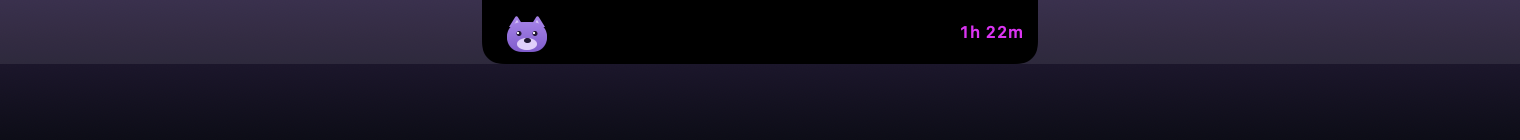
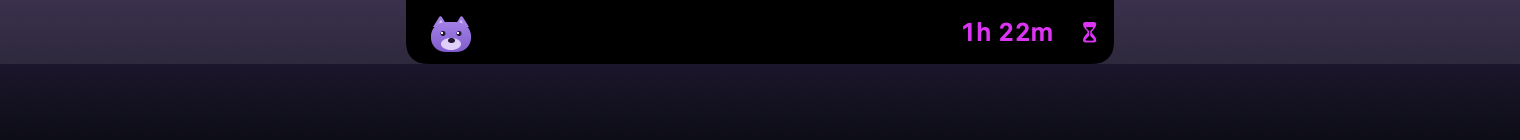
Buddy 0.7.0: countdown to your next reset beside the notch

Changed region(s): [[0.2474, 0.0, 0.3711, 0.4571], [0.6184, 0.0, 0.7421, 0.4571]]

diff --git a/Sources/Views.swift b/Sources/Views.swift
@@ -192,13 +192,26 @@ struct PillView: View {
     }
 
     private var header: some View {
-        HStack {
-            Guy(mood: store.overallMood, size: ui.geometry.barHeight * 0.66, urgent: store.peek != nil)
-                .padding(.leading, 12)
-            if ui.showsUsage, let s = store.usage?.session { usageBadge(s, approx: store.usage?.exact == false) }
-            Spacer()
-            // The space beside the notch is 46 pt; the badge never reaches under the camera.
-            badge.frame(maxWidth: 33, alignment: .trailing).padding(.trailing, 7)
+        // Each ear is the space beside the notch (46 or 84 pt); nothing reaches under the camera.
+        HStack(spacing: 0) {
+            HStack(spacing: 0) {
+                Guy(mood: store.overallMood, size: ui.geometry.barHeight * 0.66, urgent: store.peek != nil)
+                    .padding(.leading, 12)
+                if ui.showsUsage, let s = store.usage?.session { usageBadge(s, approx: store.usage?.exact == false) }
+                Spacer(minLength: 0)
+            }
+            .frame(width: ui.earWidth)
+            Spacer(minLength: 0)
+            // Both at their own width, so the badge never squeezes the countdown into "1h 5…".
+            HStack(spacing: 2) {
+                if let reset = ui.resetCountdown {
+                    resetTimer(reset.date, limit: reset.limit).fixedSize().layoutPriority(1).padding(.leading, 7)
+                }
+                Spacer(minLength: 0)
+                badge.fixedSize()
+            }
+            .padding(.trailing, 7)
+            .frame(width: ui.earWidth)
         }
         .contentShape(Rectangle())
         .onTapGesture { store.openTop() }
@@ -213,7 +226,12 @@ struct PillView: View {
                 .frame(minWidth: 16, minHeight: 16)
                 .background(Circle().fill(.orange))
         } else if !store.pausedSessions.isEmpty {
-            countdown
+            // The countdown itself sits beside the notch when there is room for it there.
+            if ui.resetCountdown?.limit == true {
+                Image(systemName: "hourglass").font(.system(size: 11, weight: .bold)).foregroundStyle(.purple)
+            } else {
+                countdown
+            }
         } else if !store.disconnectedSessions.isEmpty {
             Image(systemName: "wifi.slash").font(.system(size: 11, weight: .bold)).foregroundStyle(.purple)
                 .help("Chats stopped by a dropped connection; Buddy retries them when you're back online")
@@ -253,6 +271,18 @@ struct PillView: View {
         .frame(maxWidth: ui.earWidth - 12 - ui.geometry.barHeight * 0.66 - 12, alignment: .leading)
         .padding(.leading, 5)
         .help(store.usage?.exact == true ? "Session usage (exact) and when it resets" : "Estimated session usage and when it resets")
+    }
+
+    /// Counts down beside the notch: purple to a limit that has chats paused, else to the
+    /// session window's reset. Ticks by itself ("2h 14m", then "14:25").
+    private func resetTimer(_ reset: Date, limit: Bool) -> some View {
+        TimelineView(.periodic(from: .now, by: 1)) { context in
+            Text(Store.shortCountdown(max(0, reset.timeIntervalSince(context.date))))
+        }
+        .font(.system(size: 12.5, weight: .semibold).monospacedDigit())
+        .foregroundStyle(limit ? Color.purple : Color.white.opacity(0.85))
+        .lineLimit(1)
+        .help(limit ? "Time until the usage limit resets" : "Time until your session window resets")
     }
 
     static func usageTint(_ percent: Double) -> Color {

diff --git a/Sources/UI.swift b/Sources/UI.swift
@@ -107,7 +107,15 @@ final class UIState: ObservableObject {
 
     /// Usage sits beside the Guy, so the ears grow to fit it (both sides, to stay centred).
     var showsUsage: Bool { store.usage?.session != nil }
-    var earWidth: CGFloat { showsUsage ? 84 : 46 }
+    /// What the countdown right of the notch counts to: a usage limit that has chats paused
+    /// (`limit`), or else the session window's reset.
+    var resetCountdown: (date: Date, limit: Bool)? {
+        let now = Date()
+        if !store.pausedSessions.isEmpty, let reset = store.limitResetsAt, reset > now { return (reset, true) }
+        if let reset = store.usage?.session?.resetsAt, reset > now { return (reset, false) }
+        return nil
+    }
+    var earWidth: CGFloat { showsUsage || resetCountdown != nil ? 84 : 46 }
     var collapsedWidth: CGFloat { geometry.notchWidth > 0 ? geometry.notchWidth + 2 * earWidth : 120 + 2 * (earWidth - 46) }
 
     var size: CGSize {

diff --git a/Tools/render_demo.swift b/Tools/render_demo.swift
@@ -106,6 +106,10 @@ MainActor.assumeIsolated {
         event(#"{"hook_event_name":"UserPromptSubmit","session_id":"w1","cwd":"/Users/me/Code/acme","prompt":"go"}"#),
         event(#"{"hook_event_name":"UserPromptSubmit","session_id":"w2","cwd":"/Users/me/Code/widgets","prompt":"go"}"#),
     ], usage: usage)
+    // The widest case: the longest session countdown next to the widest badge.
+    render("collapsed-usage-wide", height: 70, expanded: false, (1...12).map { i in
+        event(#"{"hook_event_name":"UserPromptSubmit","session_id":"y\#(i)","cwd":"/Users/me/Code/acme","prompt":"go"}"#)
+    }, usage: UsageReading(session: .init(percent: 88, resetsAt: now.addingTimeInterval(4 * 3600 + 59 * 60 + 50)), week: nil, exact: true))
     render("collapsed-usage-limit", height: 70, expanded: false, limitEvents,
            usage: UsageReading(session: .init(percent: 100, resetsAt: reset), week: nil, exact: true))
 }

diff --git a/README.md b/README.md
@@ -12,14 +12,14 @@ Buddy is an independent open-source project by Purplelink LLC. It is not made by
 - **Needs you:** when a session asks for permission, asks a question, or has a plan for you to review, Buddy hops, plays a sound, and opens for 20 seconds. After that an orange badge stays until you answer.
 - **Finished:** Buddy smiles, plays a chime, and says how long the turn took ("Finished in 3m 12s"). A green check stays until you hover the notch.
 - **Jump to it:** click a session to open that exact chat in the Claude app, that exact Terminal or iTerm2 tab, or that project's VS Code or Cursor window. Click or swipe a row to clear it.
-- **Usage:** beside the character, Buddy always shows how much of your 5-hour session window you have used and when it resets (estimated from your chats on this Mac, or exact from Anthropic if you opt in). The top of the list adds a meter, plus your weekly usage when exact.
+- **Usage:** beside the character, Buddy always shows how much of your 5-hour session window you have used and when it resets; just right of the notch, a countdown shows how long until it resets (estimated from your chats on this Mac, or exact from Anthropic if you opt in). The top of the list adds a meter, plus your weekly usage when exact.
 - **Updates:** Buddy checks for a new version once a day and installs it for you (signed and notarized, through Sparkle). Turn it off in Settings.
 - **Usage limits:** when a limit pauses your chats, Buddy counts down to the reset and lists the paused chats (including ones paused before Buddy was running). **Continue now** types "continue" into each of them, and **Auto** does it for you about a minute after each chat's own limit resets (trying again up to three times if a chat is still paused).
 - **Dropped connections:** when a chat stops because the network dropped or the Mac went to sleep, Buddy retries it on its own once you are back online. It presses the chat's **Try again** button (or types "continue"), at most three times.
 
 ![The usage-limit banner: a countdown, two paused chats, and Auto turned on](design/demo/limit.png)
 
-![Buddy beside the notch: session usage and reset time on the left, two working chats on the right](design/demo/collapsed-usage.png)
+![Buddy beside the notch: session usage and reset time on the left, the countdown to the reset and two working chats on the right](design/demo/collapsed-usage.png)
 
 Buddy has no Dock icon and no account. Until it knows your usage, it hides completely when nothing is happening.
 

diff --git a/CHANGELOG.md b/CHANGELOG.md
@@ -1,5 +1,13 @@
 # Changelog
 
+## 0.7.0
+
+### Added
+- A countdown just right of the notch to your next reset ("2h 19m", then "14:25" in the last hour). It counts to the session window's reset, or, in purple, to the usage limit that has chats paused. The status badge (needs you, finished, working) stays at the far right.
+
+### Changed
+- While a limit has chats paused, the right-hand badge shows an hourglass, since the countdown now sits beside the notch.
+
 ## 0.6.0
 
 ### Added
